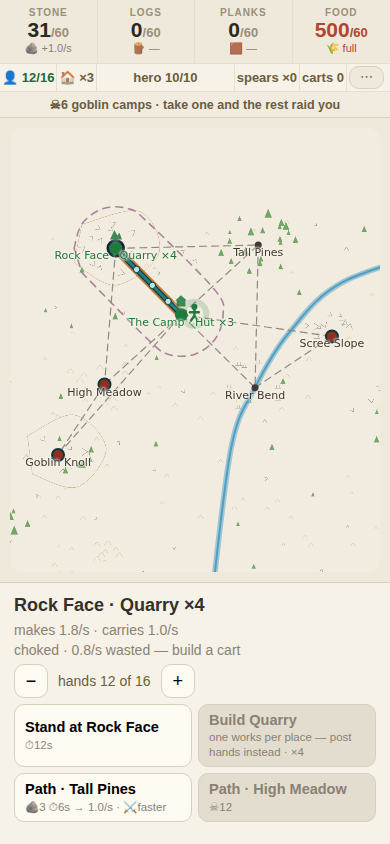
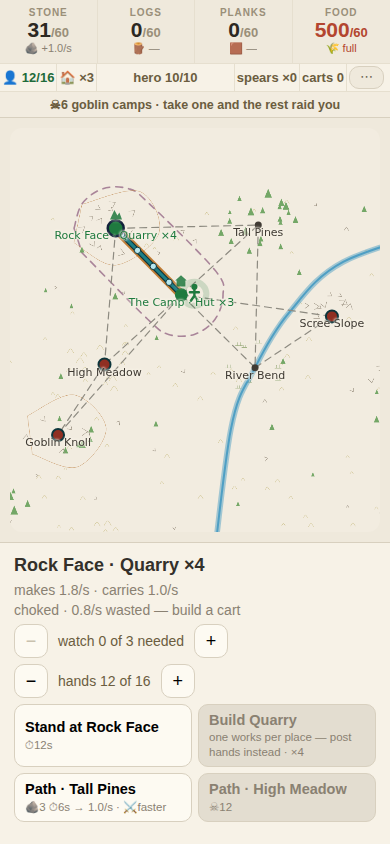
Queue 6: hands on the gate -- the hero is no longer the only defence
"We need to allow to have defensive job assignments for the units because
the hero running around everywhere cannot save everyone." Which is the
direct consequence of making the watch positional: one hero, three gates,
and no way to be at two of them.

Three posted hands turn one raid away, and it costs one of them. They do
not fight for free -- a wall you never have to maintain is a wall that
ends the war -- and unlike the hero they do NOT bleed the holding. They
hold a gate; taking ground is still the hero's job and still the only way
the war is ever won.

The posted come out of the same pool as the workers, so a valley that
guards itself produces less. That is the entire trade and the reason this
is a decision rather than a tax. The control sits directly above the
hands control on the site panel, because it is the same people.

Older saves post nobody, and the watch is validated at the save door
alongside everything else.

PROVEN RED, two sabotages: posted hands that never hold, and guards that
cost no labour. The second one is worth spelling out -- the trade test
first passed with the rule deleted, because the fixture had thirty people
competing for twelve working slots, so the pool was never the binding
constraint and posting six changed nothing. Twelve people into twelve
slots, and every posted hand is a hand not quarrying.

889 unit tests across 44 files, npm run play green.

Claude-Session: https://claude.ai/code/session_01QmyFfz98V4SRquKDwCYRQg

Changed region(s): [[0.0308, 0.2156, 0.9846, 0.8009], [0.9538, 0.4929, 0.9846, 0.5237]]

diff --git a/src/camp/engine.ts b/src/camp/engine.ts
@@ -289,6 +289,9 @@ export interface City {
    *  ambush that only moved a number would be exactly the invisibility this
    *  whole item exists to end. */
   ambush: { at: number; left: number } | null;
+  /** ★★★ POSTED TO DEFEND — 2026-08-11, queue item 6. Site id → people
+   *  standing watch there instead of working. */
+  guard: Record<number, number>;
   /** ★ WHAT OUTLIVES A RUN. The infrastructure does not; the veteran does —
    *  and what he carries out is the spears on his back. */
   legacy: { runs: number; spears: number };
@@ -389,6 +392,7 @@ export const initial = (): City => ({
   taken: 0,
   lost: false,
   ambush: null,
+  guard: {},
   legacy: { runs: 0, spears: 0 },
   fight: null,
 });
@@ -737,6 +741,26 @@ export const nextForay = (g: City): Foray => FORAYS[g.forays % FORAYS.length]!;
  *  which is the last non-spatial thing in the war. Now three holdings can be
  *  filling and the hero can be at ONE of them, and the roads decide which
  *  ones you can reach in time. */
+/** ★★★ WHAT IT TAKES TO TURN A RAID AWAY WITHOUT THE HERO — queue item 6,
+ *  2026-08-11. The owner: *"we need to allow to have defensive job
+ *  assignments for the units because the hero running around everywhere
+ *  cannot save everyone."* They are right, and it is the direct consequence
+ *  of making the watch positional: one hero cannot hold three gates.
+ *
+ *  Three posted hands turn one raid away, and it COSTS one of them — they do
+ *  not fight for free, and a wall you never have to maintain is a wall that
+ *  ends the war. The people come out of the working pool, so a guarded valley
+ *  produces less: that is the whole trade, and it is why this is a decision
+ *  rather than a tax. Unlike the hero, they do not BLEED the holding — they
+ *  hold a gate, they do not take ground. */
+export const GUARD_STOP = 3;
+/** People standing watch at a site. */
+export const guardsAt = (g: City, id: number): number =>
+  Math.max(0, Math.floor(g.guard[id] ?? 0));
+/** Everyone posted anywhere — they are not available to work. */
+export const guardsTotal = (g: City): number =>
+  Object.keys(g.guard).reduce((n, k) => n + guardsAt(g, Number(k)), 0);
+
 export const onWatchAt = (g: City, site: number): boolean =>
   !g.lost && !g.fight && !g.forage && !g.hero.trip
   && g.hero.hp > 0 && g.hero.at === site;
@@ -1061,7 +1085,9 @@ export function flow(g: City): Flow {
   // ★ ONLY THE HOUSED WORK — see `housed()`. Everyone past the huts' cap is
   // a mouth without a bunk, and a hand that has nowhere to sleep does not
   // turn up. They still eat: `hunger()` reads the whole population.
-  let pool = housed(g);
+  // ★ AND THE POSTED ARE NOT AVAILABLE (2026-08-11). Standing watch is a job;
+  // the valley that guards itself makes less, which is the entire trade.
+  let pool = Math.max(0, housed(g) - guardsTotal(g));
   const autos: number[] = [];
   for (const id of worked) {
     if (g.crew[id] !== undefined) {
@@ -1366,6 +1392,8 @@ export type Action =
   | { type: 'found' }
   /** Send the hero out for whatever the country will give up. */
   | { type: 'forage' }
+  /** ★ Post or unpost a defender at a site (2026-08-11). */
+  | { type: 'post'; id: number; by: number }
   /** Set the hero walking to a site. Held ground starts a fight on arrival. */
   | { type: 'march'; to: number }
   /** Send the hero at held ground — the battle strip opens. */
@@ -1613,6 +1641,7 @@ export function apply(g: City, a: Action): City {
       let arrived: number | null = null;
       /** Where the hero was caught on the road this tick, for the board. */
       let ambushed: number | null = null;
+      let guard = g.guard;
       // The previous mark ages out; a fresh ambush below replaces it.
       let ambush = g.ambush === null ? null
         : g.ambush.left - s > 0 ? { ...g.ambush, left: g.ambush.left - s } : null;
@@ -1695,6 +1724,14 @@ export function apply(g: City, a: Action): City {
             if (t === 0) lost = true;
             continue;
           }
+          // ★★★ THE POSTED HANDS HOLD THE GATE. Checked before the hero, so
+          // a guarded gate frees them to be somewhere else — which is the
+          // point of being able to post anyone at all.
+          if (guardsAt({ ...g, guard }, t) >= GUARD_STOP) {
+            guard = guard === g.guard ? { ...g.guard } : guard;
+            guard[t] = guardsAt(g, t) - 1;      // one does not come back
+            continue;
+          }
           if (watch && onWatchAt(g, t)) {
             watch = false;
             if (goblins === g.goblins) goblins = { ...goblins };
@@ -1745,6 +1782,7 @@ export function apply(g: City, a: Action): City {
         forays,
         famine,
         ambush: ambushed === null ? ambush : { at: ambushed, left: AMBUSH_TELL },
+        guard,
         // ★ ARRIVING ON HELD GROUND DRAWS THE SWORD. Done here rather than in
         // `march` because the arrival is a tick event, and the holding's
         // strength must be read at the moment they get there — not when they
@@ -1872,6 +1910,20 @@ export function apply(g: City, a: Action): City {
     // ★★ MARCHING IS THE ONLY WAY ANYWHERE NOW. `assail` still exists and
     // still starts a fight, but only from the ground itself — the UI sends a
     // march, and arriving on held ground is what draws the sword.
+    case 'post': {
+      if (g.lost || !SITE.get(a.id) || g.goblins[a.id]) return g;
+      const now = guardsAt(g, a.id);
+      // ⚠ ONLY THE HOUSED CAN BE POSTED, and only those not already posted
+      // somewhere else — the pool is one pool, and a person cannot both
+      // stand a watch and swing a pick.
+      const spare = Math.max(0, housed(g) - guardsTotal(g));
+      const next = Math.max(0, Math.min(now + a.by, now + spare));
+      if (next === now) return g;
+      const guard = { ...g.guard };
+      if (next <= 0) delete guard[a.id]; else guard[a.id] = next;
+      return { ...g, guard };
+    }
+
     case 'march': {
       if (unmarchable(g, a.to) !== null) return g;
       const secs = marchSecs(g, a.to)!;

diff --git a/test/campbuilder.test.ts b/test/campbuilder.test.ts
@@ -15,7 +15,7 @@ import { apply, initial, flow, shown, popCap, pathKey, costOf, pathCostOf, heroM
   raiders, raidTarget, RAID_SECS, CAMP_ROOM,
   FORAGE_SECS, FORAYS, nextForay, unforageable, faminePinch, START_FOOD, FAMINE_DEEP, onWatch,
   WALK_SECS, marchSecs, legsBetween, unmarchable, AMBUSH_TELL, MUSTER_SHOWS,
-  walkSecs, ROUGH, SWEEP_SHARE,
+  walkSecs, ROUGH, SWEEP_SHARE, GUARD_STOP, guardsAt,
   RATION_FOOD, RATION_HP, RATION_PACK,
   BLOW_SECS, blowLeft, SPEAR_NAME, SPEAR_MADE, spearLabel,
   HERO_HP, HEAL_SECS, WILD_FED, EAT, CAPTIVES,
@@ -2675,5 +2675,75 @@ describe('★★★ A SECOND WAY TO SWING', () => {
     // And a second order mid-swing is still refused.
     const mid = apply(g, { type: 'sweep' });
     expect(apply(mid, { type: 'strike' })).toBe(mid);
+  });
+});
+
+// ---------------------------------------------------------------------------
+// ★★★ THE POSTED WATCH — 2026-08-11, queue item 6. The owner: *"we need to
+// allow to have defensive job assignments for the units because the hero
+// running around everywhere cannot save everyone."* Which is the direct
+// consequence of making the watch positional: one hero, three gates.
+// ---------------------------------------------------------------------------
+describe('★★★ HANDS ON THE GATE', () => {
+  const town = (over: Partial<City> = {}): City => ({ ...initial(), taken: 1,
+    pop: 30, food: 9e5, stacks: { 0: 9, 1: 1, 2: 1, 3: 1 },
+    paths: { [pathKey(0, 1)]: 1, [pathKey(0, 2)]: 1, [pathKey(0, 3)]: 1 },
+    goblins: { 4: 12 },
+    hero: { hp: 0, spears: 1, part: 0, at: 9, trip: null }, ...over });
+
+  it('★★★ THREE POSTED HANDS TURN A RAID AWAY, and it costs one of them', () => {
+    const g = town();
+    const gate = raidTarget(g, 4)!;
+    const posted: City = { ...g, menace: { 4: 0.99 },
+      guard: { [gate]: GUARD_STOP } };
+    const out = tick(posted, RAID_SECS + 1);
+    expect(out.stacks[gate]).toBe(g.stacks[gate]);        // nothing taken
+    expect(guardsAt(out, gate)).toBe(GUARD_STOP - 1);     // one did not return
+    // ⚠ AND THE HOLDING IS NOT BLED. They hold a gate; they do not take
+    // ground. That is the hero's job and the reason to still have one.
+    expect(out.goblins[4]).toBe(g.goblins[4]);
+  });
+
+  it('★★ two hands are not enough — the raid lands', () => {
+    const g = town();
+    const gate = raidTarget(g, 4)!;
+    const thin: City = { ...g, menace: { 4: 0.99 },
+      guard: { [gate]: GUARD_STOP - 1 } };
+    const out = tick(thin, RAID_SECS + 1);
+    expect(out.stacks[gate]!).toBeLessThan(g.stacks[gate]!);
+  });
+
+  it('★★★ IT IS A TRADE: the posted do not work', () => {
+    // ⚠ THE POOL HAS TO BIND for this to measure anything. With 30 people
+    // and 12 slots the sites are the constraint, so posting six changes
+    // nothing and the test passes with the whole rule deleted. Twelve people
+    // into twelve slots makes every posted hand a hand not quarrying.
+    const g = town({ pop: 12, stacks: { 0: 3, 1: 1, 2: 1, 3: 1 } });
+    const free = flow(g);
+    const busy = flow({ ...g, guard: { 1: 6 } });
+    const hands = (f: ReturnType<typeof flow>): number =>
+      [...f.hands.values()].reduce((n, h) => n + h, 0);
+    expect(hands(busy)).toBeLessThan(hands(free));
+    expect(hands(free) - hands(busy)).toBe(6);
+  });
+
+  it('★ you cannot post more people than you have, nor onto held ground', () => {
+    const g = town({ pop: 4, stacks: { 0: 1 } });
+    const many = apply(g, { type: 'post', id: 1, by: 999 });
+    expect(guardsAt(many, 1)).toBeLessThanOrEqual(housed(g));
+    expect(apply(g, { type: 'post', id: 4, by: 1 })).toBe(g);   // goblins hold it
+    // And they come home again.
+    const one = apply(g, { type: 'post', id: 1, by: 1 });
+    expect(guardsAt(one, 1)).toBe(1);
+    expect(guardsAt(apply(one, { type: 'post', id: 1, by: -1 }), 1)).toBe(0);
+  });
+
+  it('★ the watch survives the save door, and older saves post nobody', () => {
+    expect(honour({ game: { ...town(), guard: { 1: 3 } }, savedAt: 1 })!
+      .game.guard[1]).toBe(3);
+    expect(honour({ game: { ...town(), guard: { 99: 1 } } as never,
+      savedAt: 1 })).toBeNull();
+    const { guard: _drop, ...older } = town();
+    expect(honour({ game: older as City, savedAt: 1 })!.game.guard).toEqual({});
   });
 });

diff --git a/src/ui/Camp.svelte b/src/ui/Camp.svelte
@@ -9,6 +9,7 @@
     priceLine, unlayable, unraisable, unassailable, heroHit, spearCost, hunger,
     heroMax, WILD_FED, SITE, GOBLINS, RATE, MAX_GAUGE, CREW, PATH_SECS,
     raisingLeft, buildSecs, housed, blowLeft, spearLabel, SPEAR_MADE, SWEEP_SHARE,
+    guardsAt, guardsTotal, GUARD_STOP,
     unforageable, nextForay, forageLeft, FORAGE_SECS, onWatch, RAID_SECS,
     unmarchable, marchSecs, onWatchAt, MUSTER_SHOWS,
     richOf, storeCost, roomOf, STORE_ROOM, cartCost, cartHaul, CARRY, CART_GAIN,
@@ -946,6 +947,20 @@
         {#if picked !== 0 && (game.stacks[picked] ?? 0) > 0 && !game.goblins[picked]}
           <!-- ★ POSTED HANDS — the owner's ask. Pins win the pool; freeing
                them returns everyone to farms-first auto. -->
+          <!-- ★★★ THE POSTED WATCH, 2026-08-11 — queue item 6. The owner:
+               *"we need to allow to have defensive job assignments for the
+               units because the hero running around everywhere cannot save
+               everyone."* They come out of the same pool as the workers, so
+               the row sits with the hands: it is the same people, and the
+               choice between digging and standing is the mechanic. -->
+          <div class="crew">
+            <button onclick={() => act({ type: 'post', id: picked!, by: -1 })}
+              disabled={guardsAt(game, picked) <= 0}>−</button>
+            <span>watch {guardsAt(game, picked)} of {GUARD_STOP} needed{
+              guardsAt(game, picked) >= GUARD_STOP ? ' · holds' : ''}</span>
+            <button onclick={() => act({ type: 'post', id: picked!, by: 1 })}
+              disabled={housed(game) - guardsTotal(game) <= 0}>+</button>
+          </div>
           <div class="crew">
             <button onclick={() => pinAt(picked!, -1)}
               disabled={(f.hands.get(picked) ?? 0) <= 0 && game.crew[picked] !== undefined}>−</button>

diff --git a/src/camp/store.ts b/src/camp/store.ts
@@ -124,6 +124,12 @@ export function honour(b: Blob | null | undefined): { game: City; savedAt: numbe
   }
   // ★ THE AMBUSH MARK (2026-08-10). Defaulted, not merely validated — the
   // same trap that left `hero.at` undefined and made every road unreachable.
+  // ★ THE POSTED WATCH (2026-08-11), defaulted for every older save.
+  if (g.guard === undefined || g.guard === null) g.guard = {};
+  else if (typeof g.guard !== 'object') return null;
+  else for (const [k, v] of Object.entries(g.guard)) {
+    if (SITE.get(Number(k)) === undefined || !whole(v, 1, 999)) return null;
+  }
   if (g.ambush === undefined || g.ambush === null) g.ambush = null;
   else if (typeof g.ambush !== 'object'
     || SITE.get(g.ambush.at) === undefined
